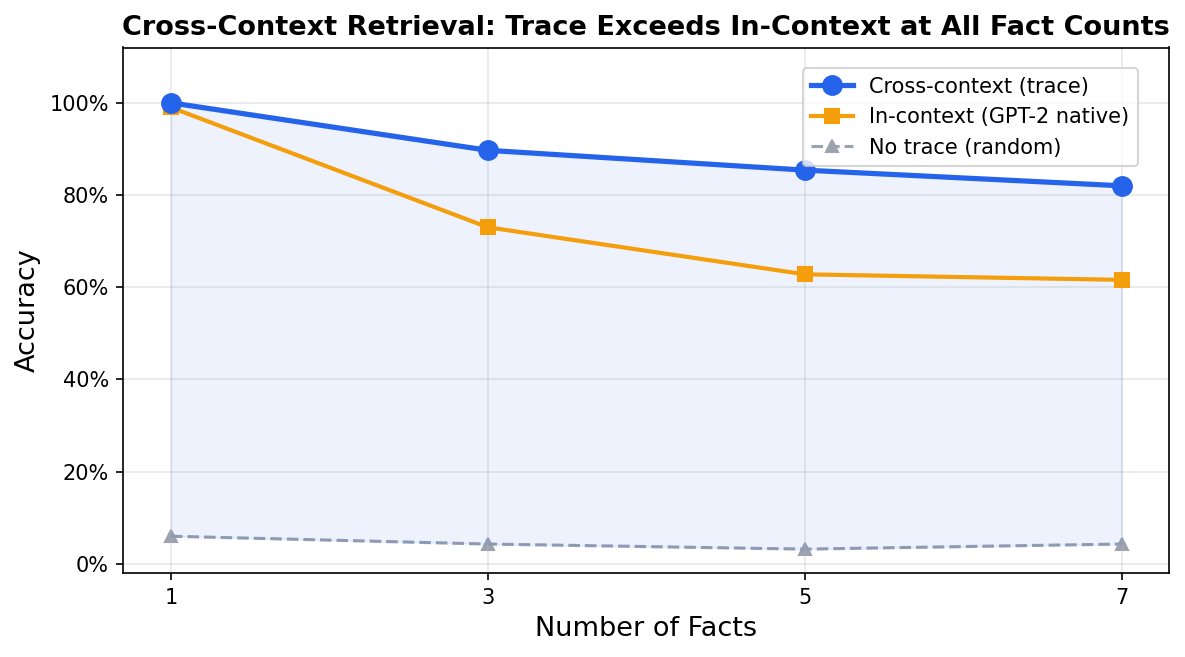
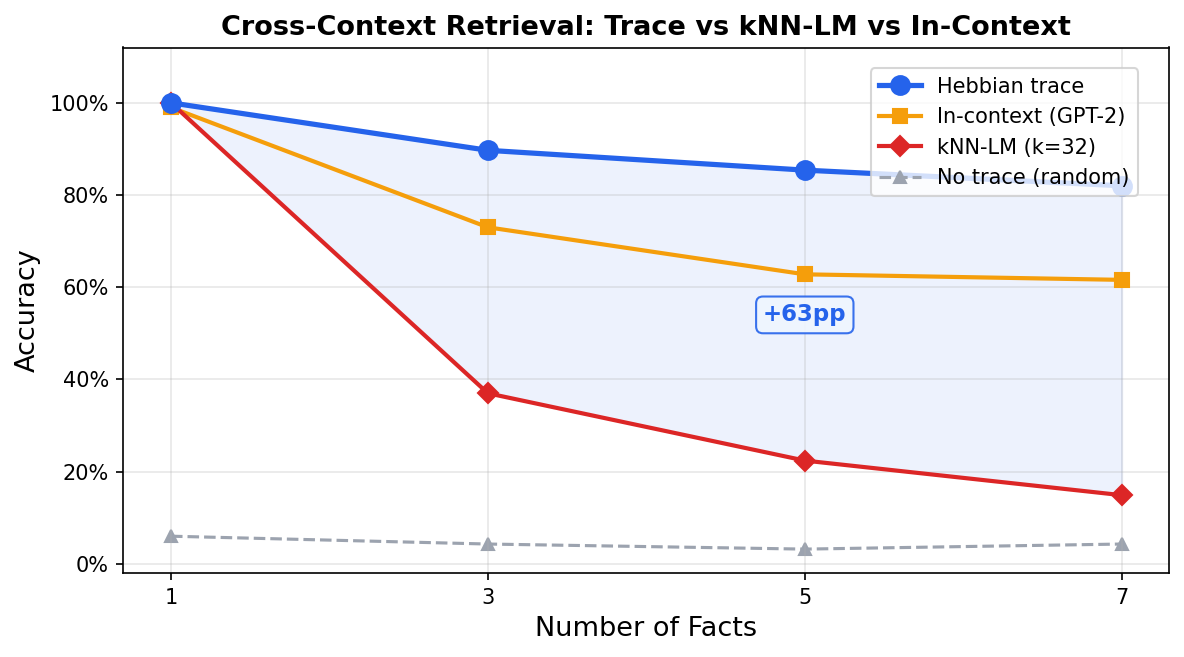
knn-lm comprasion

diff --git a/figures/generate.py b/figures/generate.py
@@ -160,21 +160,33 @@ def generate_cross_context_table():
     n_facts = [1, 3, 5, 7]
     # 100-episode evaluation, seed=42
     cross_ctx = [1.00, 0.897, 0.854, 0.820]
-    baseline = [0.060, 0.043, 0.032, 0.043]
+    knn_lm = [1.00, 0.370, 0.224, 0.149]
     in_context = [0.990, 0.730, 0.628, 0.616]
+    baseline = [0.060, 0.043, 0.032, 0.043]
 
     ax.plot(n_facts, cross_ctx, 'o-', color='#2563eb', linewidth=2.5,
-            markersize=9, label='Cross-context (trace)', zorder=3)
+            markersize=9, label='Hebbian trace', zorder=4)
     ax.plot(n_facts, in_context, 's-', color='#f59e0b', linewidth=2,
-            markersize=7, label='In-context (GPT-2 native)', zorder=2)
+            markersize=7, label='In-context (GPT-2)', zorder=2)
+    ax.plot(n_facts, knn_lm, 'D-', color='#dc2626', linewidth=2,
+            markersize=7, label='kNN-LM (k=32)', zorder=3)
     ax.plot(n_facts, baseline, '^--', color='#9ca3af', linewidth=1.5,
             markersize=6, label='No trace (random)', zorder=1)
 
-    ax.fill_between(n_facts, baseline, cross_ctx, alpha=0.08, color='#2563eb')
+    ax.fill_between(n_facts, knn_lm, cross_ctx, alpha=0.08, color='#2563eb')
+
+    # Gap annotation at n=5
+    ax.annotate('+63pp',
+                xy=(5, 0.54), fontsize=11,
+                color='#2563eb', fontweight='bold',
+                ha='center', va='center',
+                bbox=dict(boxstyle='round,pad=0.3',
+                          facecolor='#eff6ff', edgecolor='#2563eb',
+                          alpha=0.9))
 
     ax.set_xlabel('Number of Facts', fontsize=13)
     ax.set_ylabel('Accuracy', fontsize=13)
-    ax.set_title('Cross-Context Retrieval: Trace Exceeds In-Context at All Fact Counts',
+    ax.set_title('Cross-Context Retrieval: Trace vs kNN-LM vs In-Context',
                  fontsize=13, fontweight='bold')
     ax.set_xticks(n_facts)
     ax.set_ylim(-0.02, 1.12)

diff --git a/paper.tex b/paper.tex
@@ -274,7 +274,7 @@ With $\alpha{=}50$ and pattern separation ($8\times$, $k{=}16$), Phi-2 achieves 
   \begin{subfigure}[t]{0.48\textwidth}
     \centering
     \includegraphics[width=\textwidth]{figures/cross_context.png}
-    \caption{Cross-context retrieval accuracy at varying fact counts. The trace exceeds GPT-2's in-context baseline at all fact counts.}
+    \caption{Cross-context retrieval accuracy at varying fact counts. The trace exceeds both GPT-2's in-context baseline and kNN-LM at all fact counts (+63pp vs.\ kNN-LM at $n{=}5$).}
     \label{fig:cross_context}
   \end{subfigure}
   \hfill
